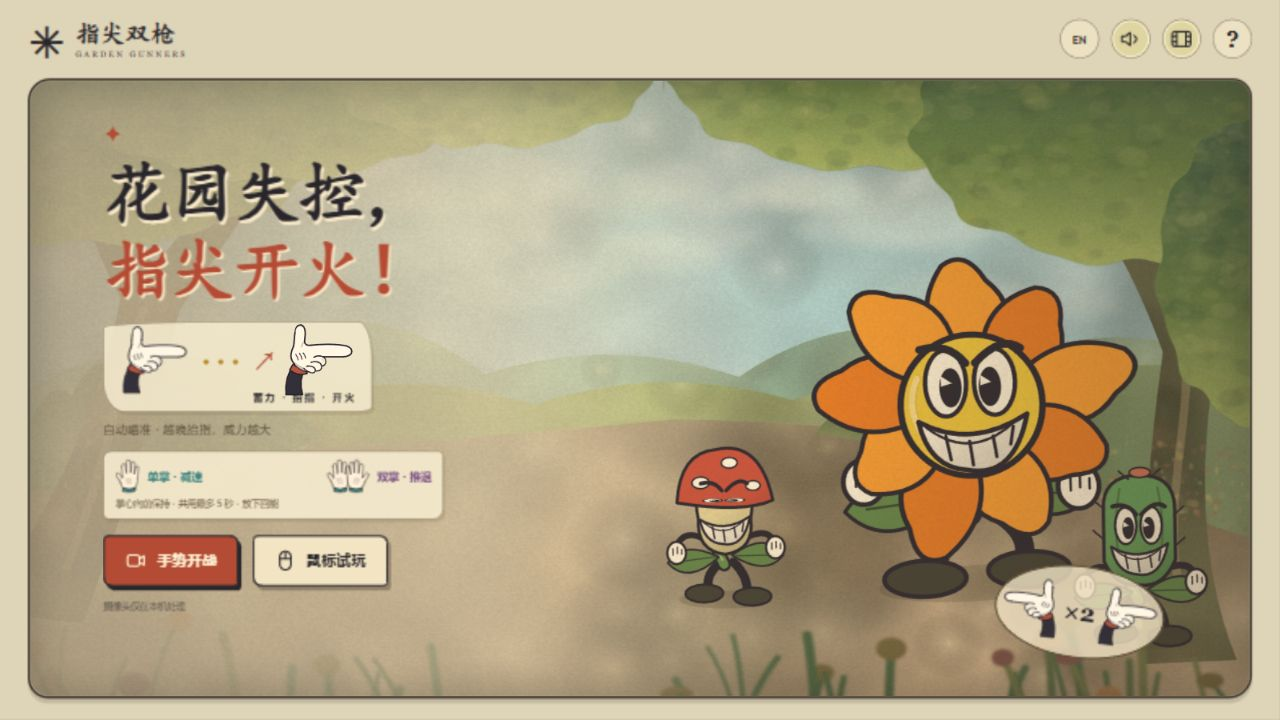
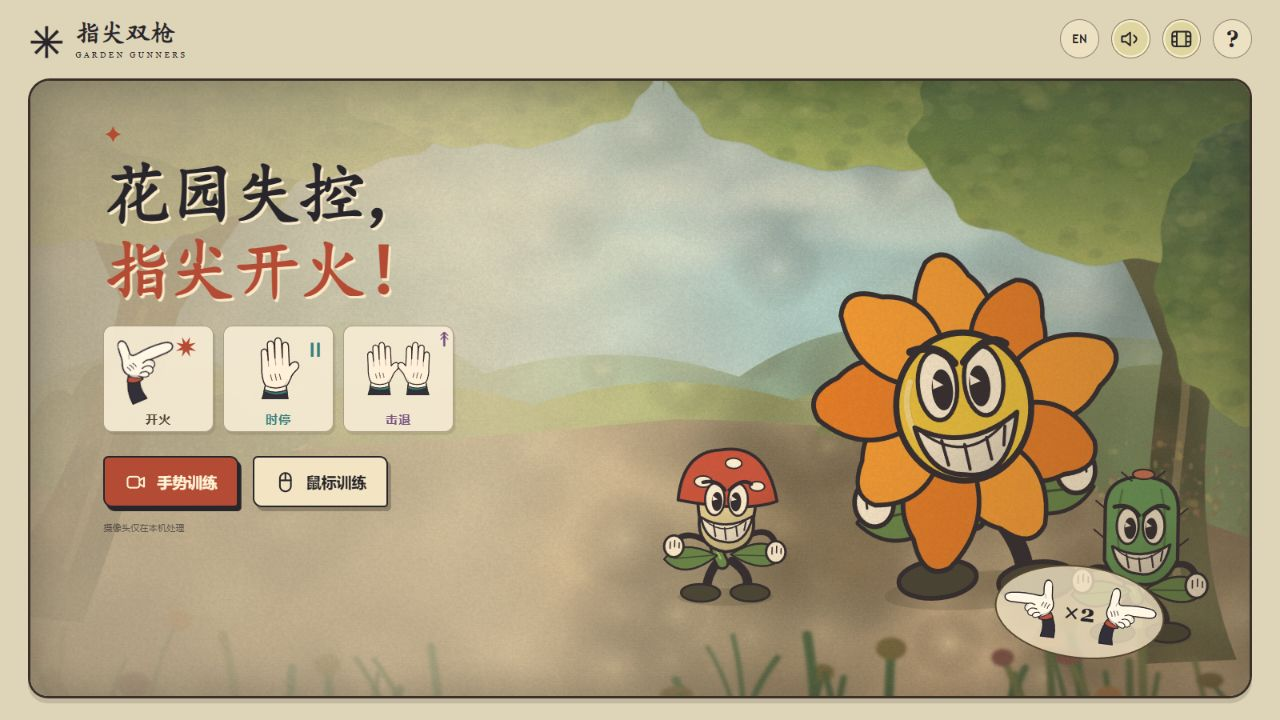
Add guided skill training, time freeze, and 20-hit explosive shots

diff --git a/dist/index.html b/dist/index.html
@@ -7,11 +7,17 @@
 <button id="film" class="tool" data-i18n-aria-label="filmOff" aria-label="Disable film effects" data-i18n-title="film" aria-pressed="true"><svg class="ui-icon" viewBox="0 0 24 24" fill="none" stroke="currentColor" stroke-width="1.8" stroke-linecap="round" stroke-linejoin="round" aria-hidden="true"><rect x="2" y="4" width="20" height="16" rx="3"/><path d="M7 4v16M17 4v16M2 9h5M2 15h5M17 9h5M17 15h5"/></svg></button>
 <button id="help" class="tool" data-i18n-aria-label="help" aria-label="How to play" data-i18n-title="help">?</button></nav></header>
 <section class="arena" data-i18n-aria-label="arena" aria-label="First-person finger-gun garden"><canvas id="scene" data-i18n-aria-label="scene" aria-label="Dual finger guns automatically targeting plants"></canvas><div class="frame-corners" aria-hidden="true"></div>
-<div id="intro" class="intro"><div class="title-star" aria-hidden="true">✦</div><h1><span data-i18n="titleOne">Garden gone wild.</span><br><span class="title-accent" data-i18n="titleTwo">Fingers, fire!</span></h1><div class="gesture-lesson" data-i18n-aria-label="lesson" aria-label="Hold a finger gun to charge, then flick upward to fire"><div class="pose-options"><img src="./assets/gun-two.svg" data-i18n-alt="poseAlt" alt="Extend your index finger and thumb; curl the other fingers"><span class="charge-dots" aria-hidden="true">● ● ●</span></div><span class="lesson-arrow" aria-hidden="true">↗</span><div class="flick-demo"><img src="./assets/gun-two.svg" data-i18n-alt="flickAlt" alt="Flick upward to fire"><i aria-hidden="true">✷</i></div><b data-i18n="lessonLabel">HOLD · LIFT · FIRE</b></div><p class="charge-hint" data-i18n="chargeHint">Auto aim · Wait longer, hit harder</p><div class="palm-lesson"><div class="palm-lesson-actions"><span><img src="./assets/palm.svg" alt="" aria-hidden="true"><b data-i18n="palmLessonSlow">One palm · Slow</b></span><span><i class="palm-pair" aria-hidden="true"><img src="./assets/palm.svg" alt=""><img src="./assets/palm.svg" alt=""></i><b data-i18n="palmLessonPush">Two palms · Push</b></span></div><small data-i18n="palmLessonEnergy">Hold palms forward · Shared 5s max · Lower to recharge</small></div><div class="intro-controls"><button id="camera-start" class="primary"><svg class="ui-icon" viewBox="0 0 24 24" fill="none" stroke="currentColor" stroke-width="1.8" stroke-linecap="round" stroke-linejoin="round" aria-hidden="true"><rect x="3" y="6" width="13" height="12" rx="3"/><path d="M16 10l5-3v10l-5-3"/></svg><span data-i18n="cameraStart">Play with hands</span></button><button id="mouse-start" class="secondary"><svg class="ui-icon" viewBox="0 0 24 24" fill="none" stroke="currentColor" stroke-width="1.8" stroke-linecap="round" stroke-linejoin="round" aria-hidden="true"><rect x="6" y="2" width="12" height="20" rx="6"/><path d="M12 3v7M6 10h12"/></svg><span data-i18n="mouseStart">Try with mouse</span></button></div><small class="privacy" data-i18n="privacy">Camera processed on your device only</small></div>
+<div id="intro" class="intro"><div class="title-star" aria-hidden="true">✦</div><h1><span data-i18n="titleOne">Garden gone wild.</span><br><span class="title-accent" data-i18n="titleTwo">Fingers, fire!</span></h1><div class="intro-lessons">
+<div class="intro-skill"><div class="lesson-picture"><span class="flick-demo"><img src="./assets/gun-two.svg" alt="" aria-hidden="true"><i aria-hidden="true">✷</i></span></div><b data-i18n="homeFire">FIRE</b></div>
+<div class="intro-skill"><div class="lesson-picture"><img class="lesson-palm" src="./assets/palm.svg" alt="" aria-hidden="true"><span class="skill-mark" aria-hidden="true">Ⅱ</span></div><b data-i18n="homeFreeze">FREEZE</b></div>
+<div class="intro-skill"><div class="lesson-picture lesson-double"><img src="./assets/palm.svg" alt="" aria-hidden="true"><img src="./assets/palm.svg" alt="" aria-hidden="true"><span class="skill-mark" aria-hidden="true">↟</span></div><b data-i18n="homePush">PUSH</b></div>
+</div><div class="intro-controls"><button id="camera-start" class="primary"><svg class="ui-icon" viewBox="0 0 24 24" fill="none" stroke="currentColor" stroke-width="1.8" stroke-linecap="round" stroke-linejoin="round" aria-hidden="true"><rect x="3" y="6" width="13" height="12" rx="3"/><path d="M16 10l5-3v10l-5-3"/></svg><span data-i18n="cameraStart">Play with hands</span></button><button id="mouse-start" class="secondary"><svg class="ui-icon" viewBox="0 0 24 24" fill="none" stroke="currentColor" stroke-width="1.8" stroke-linecap="round" stroke-linejoin="round" aria-hidden="true"><rect x="6" y="2" width="12" height="20" rx="6"/><path d="M12 3v7M6 10h12"/></svg><span data-i18n="mouseStart">Try with mouse</span></button></div><small class="privacy" data-i18n="privacy">Camera processed on your device only</small></div>
 <div id="poster-stamp" class="poster-stamp" data-i18n-aria-label="dual" aria-label="Fire both hands together"><img src="./assets/gun-two.svg" data-i18n-alt="leftGun" alt="Left gun"><span>×2</span><img src="./assets/gun-two.svg" data-i18n-alt="rightGun" alt="Right gun"></div>
 <div id="game-hud" class="game-hud" hidden><div class="health" data-i18n-aria-label="health" aria-label="Health"><b id="health">♥ ♥ ♥ ♥ ♥</b></div><div class="round-display"><b id="time">∞</b><span id="mode-name" data-i18n="practice">Practice</span></div><div class="score"><b id="score">00000</b><small id="combo">✿ 0</small></div></div>
-<div id="palm-hud" class="palm-hud" hidden><div class="palm-heading"><span aria-hidden="true">✋</span><span id="palm-state" data-i18n="palmReady">PALM POWER</span><b id="palm-time">5.0s</b></div><div id="palm-energy" class="palm-energy" role="meter" aria-valuemin="0" aria-valuemax="100" aria-valuenow="100"><i></i></div><div id="palm-buttons"><button id="stop-left" data-i18n-title="stopLeft" data-i18n-aria-label="stopLeft" aria-pressed="false">Q · L</button><button id="stop-right" data-i18n-title="stopRight" data-i18n-aria-label="stopRight" aria-pressed="false">E · R</button></div></div>
-<div id="boss-hud" class="boss-hud" hidden><b id="boss-name" data-i18n="bossName">DREAD BLOOM</b><div id="boss-health" role="meter" aria-valuemin="0" aria-valuemax="48" aria-valuenow="48"><i></i></div></div>
+<div id="palm-hud" class="palm-hud" hidden><div class="palm-heading"><span aria-hidden="true">✋</span><span id="palm-state" data-i18n="palmReady">PALM POWER</span><b id="palm-time">10.0s</b></div><div id="palm-energy" class="palm-energy" role="meter" aria-valuemin="0" aria-valuemax="100" aria-valuenow="100"><i></i></div><div id="palm-buttons"><button id="stop-left" data-i18n-title="stopLeft" data-i18n-aria-label="stopLeft" aria-pressed="false">Q · L</button><button id="stop-right" data-i18n-title="stopRight" data-i18n-aria-label="stopRight" aria-pressed="false">E · R</button></div></div>
+<div id="boss-hud" class="boss-hud" hidden><b id="boss-name" data-i18n="bossName">DREAD BLOOM</b><div id="boss-health" role="meter" aria-valuemin="0" aria-valuemax="20" aria-valuenow="20"><i></i></div></div>
+<div id="burst-hud" class="burst-hud" hidden><span aria-hidden="true">✹</span><b id="burst-label"></b><div class="burst-meter"><i id="burst-fill"></i></div></div>
+<div id="tutorial-hud" class="tutorial-hud" hidden><img id="tutorial-icon" src="./assets/gun-two.svg" alt="" aria-hidden="true"><div class="tutorial-copy"><small id="tutorial-progress"></small><b id="tutorial-title"></b><p id="tutorial-instruction"></p></div><strong id="tutorial-counter"></strong><button id="tutorial-skip" data-i18n="skipTutorial">Skip</button></div>
 <div id="feedback" class="feedback" role="status" aria-live="polite"></div>
 <aside id="camera-panel" class="camera-panel" hidden><div class="camera-top"><span>●</span><button id="stop-camera" data-i18n-aria-label="closeCamera" aria-label="Stop camera and return home">×</button></div><div class="camera-view"><video id="video" muted autoplay playsinline></video><canvas id="landmarks" width="240" height="180"></canvas></div><div id="camera-status" role="status" data-i18n="cameraMissing">○ Waiting for a hand</div></aside>
 <div id="bottom-hud" class="bottom-hud" hidden><div class="hand-status"><div class="gun-meter left"><span id="left-status">L ●</span><div id="left-charge" class="charge-meter" role="meter" aria-valuemin="0" aria-valuemax="100" aria-valuenow="0"><i></i></div><b id="left-power">×1</b></div><div class="gun-meter right"><span id="right-status">R ●</span><div id="right-charge" class="charge-meter" role="meter" aria-valuemin="0" aria-valuemax="100" aria-valuenow="0"><i></i></div><b id="right-power">×1</b></div></div><div class="bottom-middle"><span id="input-hint"></span></div><div class="round-actions"><button id="challenge" class="primary small" data-i18n="challenge">▶ Defend</button><button id="pause" class="tool" data-i18n-title="pauseHint" data-i18n-aria-label="pause" aria-label="Paused"><svg class="ui-icon" viewBox="0 0 24 24" fill="none" stroke="currentColor" stroke-width="1.8" stroke-linecap="round" stroke-linejoin="round" aria-hidden="true"><path d="M8 4v16M16 4v16"/></svg></button><button id="home" class="tool" data-i18n-title="home" data-i18n-aria-label="home" aria-label="Home"><svg class="ui-icon" viewBox="0 0 24 24" fill="none" stroke="currentColor" stroke-width="1.8" stroke-linecap="round" stroke-linejoin="round" aria-hidden="true"><path d="M10 4H4v16h6M9 12h12M16 7l5 5-5 5"/></svg></button></div></div>
@@ -20,5 +26,5 @@
 <div id="loading" class="overlay" hidden><div class="dialog"><span class="spinner">✳</span><h2 data-i18n="loading">Getting ready…</h2><p id="loading-text" role="status"></p><button id="cancel-loading" class="secondary" data-i18n="cancel">Cancel</button></div></div>
 <div id="error-box" class="overlay" hidden><div class="dialog"><h2 data-i18n="cameraUnavailable">Camera unavailable</h2><p id="error-message" role="alert"></p><button id="retry-camera" class="primary" data-i18n="retry">Try again</button><button id="fallback" class="secondary" data-i18n="mouseStart">Try with mouse</button><button id="error-home" class="text-button" data-i18n="home">Home</button></div></div>
 </section></main>
-<dialog id="help-dialog"><button id="close-help" class="close-dialog" data-i18n-aria-label="closeHelp" aria-label="Close guide">×</button><h2 data-i18n="helpTitle">Hold, charge, bang!</h2><div class="gesture-lesson" data-i18n-aria-label="lesson" aria-label="Hold a finger gun to charge, then flick upward to fire"><div class="pose-options"><img src="./assets/gun-two.svg" data-i18n-alt="poseAlt" alt="Extend your index finger and thumb; curl the other fingers"><span class="charge-dots" aria-hidden="true">● ● ●</span></div><span class="lesson-arrow" aria-hidden="true">↗</span><div class="flick-demo"><img src="./assets/gun-two.svg" data-i18n-alt="flickAlt" alt="Flick upward to fire"><i aria-hidden="true">✷</i></div><b data-i18n="lessonLabel">HOLD · LIFT · FIRE</b></div><div class="help-controls"><div><svg class="ui-icon" viewBox="0 0 24 24" fill="none" stroke="currentColor" stroke-width="1.8" stroke-linecap="round" stroke-linejoin="round" aria-hidden="true"><rect x="6" y="2" width="12" height="20" rx="6"/><path d="M12 3v7M6 10h12"/></svg><p data-i18n="mouseHelp">Click left / right or press A / D to fire. Space fires both guns. Both charge automatically: wait longer for more damage.</p></div><div><svg class="ui-icon" viewBox="0 0 24 24" fill="none" stroke="currentColor" stroke-width="1.8" stroke-linecap="round" stroke-linejoin="round" aria-hidden="true"><circle cx="12" cy="12" r="7"/><path d="M12 1v5M12 18v5M1 12h5M18 12h5"/></svg><p data-i18n="gestureHelp">Keep a finger gun in view to charge. Flick upward to fire, then lower it to charge again. Targets lock automatically; no hand aiming needed.</p></div></div><p class="help-note" data-i18n="rulesHelp">About 1 second gives 2 damage; 2 seconds gives a full 3-damage shot. Plants have 2–4 health. Practice is harmless; clear five waves and defeat the final boss with 5 hearts to win.</p><p class="help-note" data-i18n="trackingHelp">Keep your hands comfortably apart. Brief occlusions preserve charge; a longer absence pauses play. Holding a raised finger does not fire repeatedly.</p><p class="help-note" data-i18n="palmHelp"></p><p class="help-note" data-i18n="privacyHelp">Camera frames are never recorded or uploaded. The first model download needs internet access. Leaving stops the camera.</p><button id="help-done" class="primary" data-i18n="helpDone">Let’s play!</button></dialog>
+<dialog id="help-dialog"><button id="close-help" class="close-dialog" data-i18n-aria-label="closeHelp" aria-label="Close guide">×</button><h2 data-i18n="helpTitle">Hold, charge, bang!</h2><div class="gesture-lesson" data-i18n-aria-label="lesson" aria-label="Hold a finger gun to charge, then flick upward to fire"><div class="pose-options"><img src="./assets/gun-two.svg" data-i18n-alt="poseAlt" alt="Extend your index finger and thumb; curl the other fingers"><span class="charge-dots" aria-hidden="true">● ● ●</span></div><span class="lesson-arrow" aria-hidden="true">↗</span><div class="flick-demo"><img src="./assets/gun-two.svg" data-i18n-alt="flickAlt" alt="Flick upward to fire"><i aria-hidden="true">✷</i></div><b data-i18n="lessonLabel">HOLD · LIFT · FIRE</b></div><div class="help-controls"><div><svg class="ui-icon" viewBox="0 0 24 24" fill="none" stroke="currentColor" stroke-width="1.8" stroke-linecap="round" stroke-linejoin="round" aria-hidden="true"><rect x="6" y="2" width="12" height="20" rx="6"/><path d="M12 3v7M6 10h12"/></svg><p data-i18n="mouseHelp">Click left / right or press A / D to fire. Space fires both guns. Both charge automatically: wait longer for more damage.</p></div><div><svg class="ui-icon" viewBox="0 0 24 24" fill="none" stroke="currentColor" stroke-width="1.8" stroke-linecap="round" stroke-linejoin="round" aria-hidden="true"><circle cx="12" cy="12" r="7"/><path d="M12 1v5M12 18v5M1 12h5M18 12h5"/></svg><p data-i18n="gestureHelp">Keep a finger gun in view to charge. Flick upward to fire, then lower it to charge again. Targets lock automatically; no hand aiming needed.</p></div></div><p class="help-note" data-i18n="rulesHelp">About 1 second gives 2 damage; 2 seconds gives a full 3-damage shot. Plants have 1–2 health. Practice is harmless; clear five waves and defeat the final boss with 5 hearts to win.</p><p class="help-note" data-i18n="trackingHelp">Keep your hands comfortably apart. Brief occlusions preserve charge; a longer absence pauses play. Holding a raised finger does not fire repeatedly.</p><p class="help-note" data-i18n="palmHelp"></p><p class="help-note" data-i18n="privacyHelp">Camera frames are never recorded or uploaded. The first model download needs internet access. Leaving stops the camera.</p><button id="help-done" class="primary" data-i18n="helpDone">Let’s play!</button></dialog>
 <script type="module" src="./app.mjs"></script></body></html>

diff --git a/dist/style.css b/dist/style.css
@@ -15,7 +15,11 @@
 html[lang=en] h1{font-family:Georgia,serif;font-size:clamp(34px,4.5vw,70px);line-height:1.12;letter-spacing:-2.5px}html[lang=en] .brand{font:700 22px Georgia,serif}html[lang=en] .intro{width:53%;left:5%}html[lang=en] .dialog h2,html[lang=en] dialog h2{font-family:Georgia,serif;font-size:28px}.help-controls p{line-height:1.75}.help-note{line-height:1.7}
 @media(max-width:650px){.masthead nav{gap:5px}.tool.language{min-width:30px;font-size:10px}html[lang=en] .brand{font-size:16px}.brand-icon{font-size:27px}html[lang=en] .brand small{letter-spacing:1px;font-size:6px}html[lang=en] h1{font-size:37px;letter-spacing:-1.5px}html[lang=en] .intro{width:89%;left:6%}.charge-hint{font-size:10px;margin-bottom:15px}.gun-meter{gap:3px}.charge-meter{width:40px}.hand-status{gap:8px}.gun-meter b{font-size:10px}.gesture-lesson{min-width:205px}.help-controls{grid-template-columns:1fr}html[lang=en] .intro-controls button{font-size:11px;padding:10px;gap:6px}}
 .tool.language{padding:0;white-space:nowrap}
-.intro .charge-hint{margin-bottom:12px}.palm-lesson{width:340px;max-width:100%;margin:0 0 16px;padding:7px 11px 8px;background:#f5eacde8;border:1.5px solid #4a3b2a66;border-radius:8px 5px 10px 6px;box-shadow:2px 3px #4b3d2622}.palm-lesson-actions{display:flex;justify-content:space-between;gap:10px}.palm-lesson-actions>span{display:flex;align-items:center;gap:7px;color:#367f7d}.palm-lesson-actions>span+span{color:#795082}.palm-lesson img{width:25px;height:35px}.palm-lesson b{font-size:11px;white-space:nowrap}.palm-pair{display:flex;gap:0}.palm-pair img:last-child{transform:scaleX(-1);margin-left:-6px}.palm-lesson small{display:block;font-size:9px;line-height:1.5;color:#655640;margin-top:3px}html[lang=en] .palm-lesson{width:355px}.intro .gesture-lesson{margin-bottom:17px}@media(max-width:650px){.palm-lesson{margin-bottom:13px}.palm-lesson b{font-size:10px}.palm-lesson small{font-size:8px}}@media(min-width:651px) and (max-height:800px){.intro{top:6%}.intro h1{margin-bottom:14px}.intro .gesture-lesson{height:90px;margin-block:10px 15px}.intro .privacy{margin-top:14px}}
+.intro-lessons{display:grid;grid-template-columns:repeat(3,1fr);gap:10px;width:350px;max-width:100%;margin:18px 0 24px}.intro-skill{display:grid;grid-template-rows:80px 25px;justify-items:center;align-items:center;background:#f6ebd4e8;border:1.5px solid #65564180;border-radius:9px;box-shadow:2px 3px #4b3d2622}.intro-skill b{font-size:12px;letter-spacing:1px;color:#544636}.lesson-picture{height:76px;width:100%;display:flex;align-items:center;justify-content:center;position:relative}.lesson-picture .flick-demo{display:block;width:72px;height:72px}.lesson-picture .flick-demo img{width:72px;height:72px}.lesson-palm{width:44px;height:66px}.lesson-double img{width:37px;height:58px}.lesson-double img+img{transform:scaleX(-1);margin-left:-5px}.skill-mark{position:absolute;right:8px;top:6px;font:700 19px Georgia;color:#367f7d}.lesson-double .skill-mark{color:#795082;right:4px;top:0}.intro-skill:nth-child(2) b{color:#367f7d}.intro-skill:nth-child(3) b{color:#795082}
+.burst-hud{position:absolute;right:30px;top:77px;width:154px;display:grid;grid-template-columns:20px 1fr;gap:3px;color:#765438;background:#f4e8c8d9;border:1px solid #76644b;border-radius:7px;padding:7px;font:700 10px Georgia}.burst-hud>span{font-size:22px;grid-row:span 2}.burst-meter{height:5px;background:#9c825444;border-radius:4px;overflow:hidden}.burst-meter i{display:block;height:100%;background:#e79437}.burst-hud[data-active=true]{color:#9b3d25;background:#ffdf9be8;box-shadow:0 0 16px #ee8b3855}.burst-hud[data-active=true] .burst-meter i{background:#d95e29}
+.tutorial-hud{position:absolute;top:143px;left:50%;transform:translateX(-50%);width:420px;max-width:90%;display:grid;grid-template-columns:58px 1fr 38px;align-items:center;gap:10px;padding:12px 14px 23px;background:#f8edcfef;border:2px solid #594b38;border-radius:10px;box-shadow:3px 4px #4b3d2633;z-index:2}.tutorial-hud>img{width:56px;height:67px;object-fit:contain}.tutorial-copy{min-width:0}.tutorial-copy small{display:block;color:#438681;font:12px Georgia;letter-spacing:1px;margin-bottom:5px}.tutorial-copy b{font-size:17px}.tutorial-copy p{font-size:11px;line-height:1.6;margin:5px 0 0}.tutorial-hud>strong{font:700 13px Georgia;color:#3d817b;text-align:center}#tutorial-skip{position:absolute;bottom:5px;right:13px;font-size:9px;color:#75664f;text-decoration:underline;padding:2px}.training #feedback{display:none}.training .tutorial-hud[data-step=burst]{border-color:#c17136}.training .tutorial-hud[data-step=push]{border-color:#87629a}
+@media(max-width:650px){.intro-lessons{gap:8px;width:320px;margin-block:14px 22px}.intro-skill{grid-template-rows:73px 24px}.intro-skill b{font-size:10px}.burst-hud{right:14px;top:65px;width:128px;font-size:8px;padding:5px}.tutorial-hud{top:153px;grid-template-columns:40px 1fr 30px;gap:7px;padding:9px 10px 23px}.tutorial-hud>img{width:38px;height:54px}.tutorial-copy b{font-size:14px}.tutorial-copy p{font-size:10px}.tutorial-copy small{font-size:10px}.tutorial-hud>strong{font-size:11px}}
+@media(min-width:651px) and (max-height:800px){.intro{top:6%}.intro h1{margin-bottom:14px}.intro .privacy{margin-top:14px}}
 .palm-hud{position:absolute;left:30px;top:70px;width:172px;padding:8px 10px;background:#f4e8c8d9;border:1.5px solid #4b4433;border-radius:9px;box-shadow:2px 3px #3c372430;color:#367f7d}.palm-heading{display:flex;align-items:center;gap:5px;font:bold 10px Georgia}.palm-heading b{margin-left:auto;font-size:13px}.palm-energy{height:9px;background:#5b574b40;border:1px solid #4b4433;border-radius:6px;overflow:hidden;margin-top:5px}.palm-energy i{display:block;height:100%;width:var(--energy,100%);background:#4c9f98}.palm-hud[data-state=push]{color:#7850a2}.palm-hud[data-state=push] .palm-energy i{background:#9470b2}.palm-hud[data-state=empty]{color:#9c4937}.palm-hud[data-state=empty] .palm-heading{font-size:9px}#palm-buttons{display:flex;gap:8px;margin-top:5px}#palm-buttons button{flex:1;border:1px solid currentColor;border-radius:4px;padding:3px;font:700 10px Georgia;touch-action:none;user-select:none}#stop-right{color:#bd513c}#palm-buttons button[aria-pressed=true]{background:#fff2d9;box-shadow:inset 0 0 0 1px currentColor}.boss-hud{position:absolute;top:92px;left:50%;transform:translateX(-50%);width:280px;text-align:center;color:#f5e6cc;text-shadow:1px 2px #32223b;font:900 14px Georgia;pointer-events:none}#boss-health{margin-top:6px;height:12px;border:2px solid #33223a;border-radius:7px;background:#443442;overflow:hidden}#boss-health i{display:block;height:100%;width:var(--boss-hp,100%);background:linear-gradient(90deg,#85509b,#d27989)}
 @media(max-width:650px){.palm-hud{left:14px;top:65px;width:140px;padding:6px}.boss-hud{top:155px;width:190px;font-size:11px}.palm-heading{font-size:8px}.palm-heading b{font-size:11px}}
 /* Tracking loss must leave the live preview and its landmarks unobscured. */

diff --git a/README.md b/README.md
@@ -6,11 +6,9 @@ English overview and a short marking walkthrough: [Assessment guide](docs/ASSESS
 
 ![新版首页](docs/screenshot.png)
 
-![参考轮廓重绘的白手套与自动锁定](docs/gameplay.jpg)
+![新版手背白手套（模拟按键检查）](docs/tutorial-palms.png)
 
-![分波来袭与增强指尖蓄力](docs/waves-charge.jpg)
-
-![双掌推退和最终波 Boss（模拟输入检查，并非真人摄像头）](docs/palms-boss.png)
+![20 连击爆燃范围效果（模拟检查）](docs/burst-shots.png)
 
 ## 启动
 
@@ -36,20 +34,22 @@ npm start
 | 瞄准 | 自动锁定最迫近的植物，双枪按目标左右位置分配，只显示准星 | 同样自动锁定，无需移动鼠标 |
 | 蓄力 | 保持指枪，约 1 秒为 2 点伤害、2 秒为 3 点伤害 | 两枪自动蓄力，晚一点点击 / 按键伤害更高 |
 | 发射 | 稳住片刻，向上轻抬食指或手腕，放回原位后再抬 | 左键 / A 左枪，右键 / D 右枪，空格双发 |
-| 减速 | 一只手张开、掌心朝镜头保持，另一手可继续射击 | 按住 Q 左掌 / E 右掌，或按住能量条下的按钮 |
-| 推退 | 双手同时张掌，逐渐推退敌群 | 同时按住 Q + E |
+| 时停 | 一只手张开、掌心朝镜头保持，冻结怪物，另一手可继续射击 | 按住 Q 左掌 / E 右掌，或按住能量条下的按钮 |
+| 强力击退 | 双手同时张掌，将敌群快速推远 | 同时按住 Q + E |
 | 暂停 | Esc / 暂停按钮 | 相同 |
 | 退出 | 退出 / 返回首页，同时关闭摄像头 | 相同 |
 
 食指自然朝向镜头即可，不用刻意侧过来、竖拇指或收紧其他手指。保持手指和手腕完整入镜，两只手自然分开。识别优先使用三维关节，兼容指尖与指节在画面中重叠的情况；极端遮挡下模型仍可能丢失手部。
 
-**有植物时开火必定命中。** 自动选择最迫近的目标，两枪按目标的左右位置分配，不要求交叉手臂。场上只剩一只植物时，两枪可锁定同一个；没有植物时不计空枪。命中会击退植物，显示伤害与得分。蘑菇 / 花朵 / 仙人掌分别有 2 / 3 / 4 点生命；蓄力伤害依次为 1 / 2 / 3。指尖能量球、汇聚粒子、双层能量环、满蓄力电弧、子弹与爆字随蓄力加强。没有弹药限制，保持抬指不动不会自动连射。
+**有植物时开火必定命中。** 自动选择最迫近的目标，两枪按目标的左右位置分配，不要求交叉手臂。场上只剩一只植物时，两枪可锁定同一个；没有植物时不计空枪。命中会击退植物，显示伤害与得分。蘑菇 / 花朵 / 仙人掌分别有 1 / 1 / 2 点生命；蓄力伤害依次为 1 / 2 / 3。指尖能量球、汇聚粒子、双层能量环、满蓄力电弧、子弹与爆字随蓄力加强。没有弹药限制，保持抬指不动不会自动连射。
 
-界面按浏览器首选语言显示中文或英文，其他语言默认英文。右上角 `EN / 中文` 可手动切换并保存选择。首页用指枪与掌心图示表达蓄力开火、单掌减速、双掌推退及共享能量。指枪识别不严格要求图中姿势，三指和放松其他手指都可使用。
+界面按浏览器首选语言显示中文或英文，其他语言默认英文。右上角 `EN / 中文` 可手动切换并保存选择。首页用指枪与掌心图示表达蓄力开火、单掌时停和双掌击退；三张图卡等宽对齐，详细说明放在训练中。指枪识别不严格要求图中姿势，三指和放松其他手指都可使用。
 
-掌心动作使用两手共用的能量条。满能量可单手减速 **5 秒**，敌人移速降低 68%；双掌移速降低 85% 并持续推退，耗能为单掌的 1.6 倍。放下所有停止手势后缓慢恢复，空到满约 7.7 秒；不必充满即可再次使用。保持空能量掌心不会自动恢复。张掌的手不射击，另一只指枪仍可正常蓄力、开火。为避免误射，四指明显张开并面向镜头时优先进入停止模式；普通指枪不检查中指是否伸出。
+掌心动作使用两手共用的能量条。满能量可单手**时停 10 秒**，冻结怪物移动、动作与补兵计时；双掌在停止前进的同时强力击退，耗能为单掌的 1.6 倍，满能量可持续约 6.25 秒。放下所有停止手势后每秒恢复 1 秒能量，空到满约 10 秒；不必充满即可再次使用。保持空能量掌心不会自动恢复。张掌的手不射击，另一只指枪仍可正常蓄力、开火。四指明显张开并面向镜头时优先进入停止模式，普通指枪不检查中指是否伸出。
 
-先自由练习，不限时也不扣生命；随时点击“开始保卫战”。保卫战有 5 点生命，共 5 波，依次为 **6 / 10 / 16 / 22 / 30** 只。开波成群来袭，较大的波次分批补充，场上最多 18 只；每波结束休息 3.5 秒，可提前蓄力或恢复掌心能量。最后一波包含 48 点生命的巨型花王，有独立血条、较强击退抗性，半血后加速。普通植物接触扣 1 点生命，Boss 扣 2 点并后退继续进攻；必须击败 Boss 并清完最终波才能获胜。
+**每 20 次命中连击触发 6 秒爆燃射击**（20、40、60……），触发这一枪就获得范围伤害，后续子弹也伤害目标周围的敌人。橙色指尖火焰、爆炸范围圈与倒计时提示效果；溅射击杀不额外增加连击或命中次数。受伤会清空连击，暂停冻结爆燃时间，重开清除效果。
+
+开始后进入安全训练，依次练习开火、满蓄力、单掌时停、一手停一手射、双掌击退、放下回能、20 连击范围爆燃。完成当前动作才进入下一项；最后自动进入第一波，生命、能量和连击全部重置。已有经验可点“跳过教学”。保卫战有 5 点生命，共 5 波，依次为 **6 / 10 / 16 / 22 / 30** 只。开波成群来袭，较大的波次分批补充，场上最多 18 只；每波结束休息 3.5 秒，可提前蓄力或恢复掌心能量。最后一波包含 20 点生命的巨型花王，有独立血条、较强击退抗性，半血后加速。普通植物接触扣 1 点生命，Boss 扣 2 点并后退继续进攻；必须击败 Boss 并清完最终波才能获胜。
 
 ## 交互实现
 
@@ -57,8 +57,9 @@ npm start
 - 两只手使用独立触发器、蓄力和冷却。`dist/tracking.mjs` 根据相邻帧手腕位置匹配双手，首次保留当前 Tasks Vision 路径的高置信度左右手标签，不再额外交换；后续优先连续跟踪，避免偶尔跳变的标签或检测顺序换枪。预览骨架、L/R 标记和开枪共用最终分配的身份及颜色（左青绿、右砖红）。标签不明确时才按镜像画面位置回退。食指稍弯也可进入；清晰识别后允许短暂食指遮挡，最多约 750ms 保留指枪状态；重新出现时校准基线，不补发遮挡中发生的动作。
 - `dist/palm-control.mjs`：四指张开及手掌平面朝向检测，稳定 120ms 后生效；规则宽容，不严格区分掌心与手背。停止手势优先于射击，切回指枪重新校准，丢失追踪超过 150ms 即停止耗能与控制。共享能量、部分充能复用、双掌额外耗能均由独立规则管理。
 - `automaticTargets()` 按迫近程度选取目标，再按屏幕左右排序；`GardenGame.shoot()` 在开火时重新选取存活目标，扣血、击退并加分。玩家手掌位置不再用于瞄准。
+- `dist/tutorial.mjs`：七步训练状态，按实际动作推进，暂停不计进度，完成后由应用自动进入正式关卡。
 - `dist/app.mjs`：输入、暂停、模式切换、反馈和摄像头生命周期。
-- `dist/renderer.mjs`：Canvas 原创复古卡通角色、白手套和粒子，`backdrop.mjs` 绘制分层背景。首页展示一种指枪教学、蓄力提示与抬指动画，详细说明收进问号。右上角胶片按钮切换柔焦、颗粒、暖色与暗角；系统减少动态效果设置会停用动态图示、颗粒位移及划痕。无外部绘图库或运行时图片服务依赖。
+- `dist/renderer.mjs`：Canvas 原创复古卡通角色、白手套和粒子，`backdrop.mjs` 绘制分层背景。首页展示三张技能图卡，训练逐项解释技能，详细说明收进问号。右上角胶片按钮切换柔焦、颗粒、暖色与暗角；系统减少动态效果设置会停用动态图示、颗粒位移及划痕。无外部绘图库或运行时图片服务依赖。
 - `dist/camera.mjs` / `dist/gesture-worker.mjs`：双手识别及预览；模型在 worker 中运行；摄像头请求最高 60fps，16ms 轮询最新帧，同时只允许一帧推理。实际识别频率取决于设备与模型耗时，完全漏掉的动作无法凭空重建。
 - `dist/i18n.mjs`：中文与英文文案，包含首页、帮助、HUD、暂停、结果、加载、错误与无障碍标签。
 
@@ -88,7 +89,7 @@ npm start
 npm test
 ```
 
-60 项自动测试覆盖：宽松食指追踪、中指变化不影响指枪或手套、三维正向透视、独立双枪、抖动与重装定、追踪中断、自动锁定、三档伤害、暂停/胜负/重置、双语、手套指尖与弹道一致，快速连续抬落、左右手映射与预览同色、五波数量与休息切换、掌心优先级与丢失恢复、共享能量的耗尽和部分恢复、单掌减速与双掌推退、Boss 接触及击杀胜利，以及音乐与音效生命周期。浏览器验证另见 `PROCESS.md`。
+67 项自动测试覆盖：宽松食指追踪、中指变化不影响指枪或手套、三维正向透视、独立双枪、抖动与重装定、追踪中断、自动锁定、三档伤害、暂停/胜负/重置、双语、手套指尖与弹道一致，快速连续抬落、左右手映射与预览同色、五波数量与休息切换、掌心优先级与丢失恢复、共享能量的耗尽和部分恢复、单掌时停与强力双掌击退、Boss 接触及击杀胜利、20 连击范围伤害与效果时限、七步教学推进与暂停，以及音乐与音效生命周期。浏览器验证另见 `PROCESS.md`。
 
 这是固定第一视角的轻量原型，没有移动探索或存档。**新版真实双手摄像头的舒适度与识别成功率仍需要再次实际试玩；合成关键点测试不能替代这一验证。** 手机布局可用，但主要面向桌面摄像头。首次试用反馈与对应改进已按提交者提供的信息记录在 PROCESS.md；未虚构第二次试用结果。
 

diff --git a/docs/ASSESSMENT.md b/docs/ASSESSMENT.md
@@ -16,16 +16,17 @@ npm run play
 
 No package installation or build step is needed. The launcher opens the browser and prints the actual local URL. On Windows, double-click `Play Garden Gunners.cmd` instead. Keep the terminal open; Ctrl+C stops the server. `npm start` is also supported, but requires manually opening the printed address. If its default port is occupied, use `npm run play` to select a free port.
 
-Use Chrome or Edge on a desktop. The interface follows the browser language (Chinese or English); the top language button overrides it. Click **Try with mouse** to inspect the complete interaction without granting any permission. Click **Play with hands** for the camera version. MediaPipe Tasks Vision 0.10.14 and the version-1 float16 Gesture Recognizer model are downloaded on first camera use. Frames stay on the device; they are not uploaded or recorded. There are no API keys, paid inference services, or Python runtime requirements.
+Use Chrome or Edge on a desktop. The interface follows the browser language (Chinese or English); the top language button overrides it. Click **Train with mouse** to inspect the complete interaction without granting any permission. Click **Train with hands** for the camera version. MediaPipe Tasks Vision 0.10.14 and the version-1 float16 Gesture Recognizer model are downloaded on first camera use. Frames stay on the device; they are not uploaded or recorded. There are no API keys, paid inference services, or Python runtime requirements.
 
 ## A two-minute walkthrough
 
-1. Enter mouse practice. It has no time limit or health penalty. Wait about two seconds: both fingertips and charge meters reach full charge.
-2. Press A or left-click for the left gun; D or right-click for the right. Space fires both. Any living target is hit automatically. Compare a quick follow-up shot with a fully charged one: damage increases from 1 to 2 to 3, with distinct projectile, impact and sound feedback.
-3. Press Esc. The game and audio stop; Resume continues. The home button resets the session. The speaker button mutes music and effects together.
-4. Hold Q for the left open palm or E for the right. One palm slows enemies while the other hand can shoot. Both palms push enemies back, draining the shared energy 1.6 times faster. Full energy lasts five seconds with one palm; lowering both restores it gradually, and partial energy can be reused. The buttons below the energy meter offer the same hold controls.
-5. Try Defend: complete five waves with five hearts. Waves contain 6, 10, 16, 22 and 30 enemies, arriving in groups with a 3.5-second intermission and at most 18 on screen. The final wave includes a large 48-HP flower boss with a health bar, knockback resistance and a half-health speed increase. It costs two hearts on contact and returns to attack; defeating it is required to win.
-6. For the camera, point an index finger naturally toward the lens, hold briefly, then lift it and lower it to re-arm. The other fingers do not need a precise gun pose. Clearly opening four fingers toward the camera takes priority and activates the palm control. Move both hands away: after a short grace period play pauses, while the camera preview remains clear. Bring a steady hand back to continue. Denied permission or an unavailable model provides Retry and mouse fallback.
+1. Enter mouse training. Follow seven short lessons: fire twice, charge a full shot, freeze time, fire with the other hand while freezing, push with both palms, recharge, then trigger explosive shots. Lessons check the actual action; finishing automatically enters wave one with fresh health, energy and combo. Skip training is also available.
+2. Press A or left-click for the left gun; D or right-click for the right. Space fires both. Targets are automatic. A full two-second charge deals 3 damage; regular plants have only 1–2 health.
+3. Hold Q or E to freeze enemies while the other hand shoots. Hold both to push strongly. Both hands share 10 seconds of energy; two palms drain it 1.6 times faster. Release to recharge, and reuse partial energy at any time.
+4. Every 20 consecutive hits activates 6 seconds of explosive area shots, including the triggering shot. Nearby enemies take splash damage; splash does not add extra combo. The orange fingertip flame, impact radius and countdown show the active effect.
+5. Complete five waves of 6, 10, 16, 22 and 30 enemies, with 3.5-second intermissions and at most 18 on screen. The final wave includes a 20-HP flower boss. It costs two hearts on contact and returns to attack; defeating it is required to win.
+6. For the camera, point an index toward the lens, lift and lower it to shoot. Open a palm toward the camera to freeze; open both to push. Move both hands away: play pauses after a grace period while the preview remains clear. Resume a steady pose to continue. Denied permissions offer retry and mouse fallback.
+7. Esc pauses game and audio. The home button resets the session; the speaker mutes music and effects together.
 
 ## One input-to-response code path
 

diff --git a/PROCESS.md b/PROCESS.md
@@ -132,3 +132,15 @@ OpenAI Codex 协助规则设计、MediaPipe 实现、程序化图形、测试、
 画面证据：[双掌与 Boss 模拟检查](docs/palms-boss.png)。另检查新增 HUD 在桌面与窄窗口的布局、英文状态与血条文案；浏览器检查未见警告或错误。
 
 随后根据玩家第 4 轮反馈，将掌心操作说明直接放到首页：白手套图示区分单掌减速与双掌推退，一行中英文文字说明保持朝前、共享能量与放下回充。通过现有双语检查并在浏览器检查首页，保留图形为主的说明方式。玩家将稍后测试，不记录尚未发生的复测结果。
+
+## 时停、20 连击爆燃与逐步训练（2026-10-31）
+
+玩家反馈首页说明过多、难度偏高及张掌造型不佳，并要求训练自动衔接关卡。按 [第 5、6 轮反馈](PLAYER_FEEDBACK.md)，首页缩为三张等宽技能图卡。张掌根据新参考画为手背白手套：指头并拢、圆指尖、竖布缝、拇指向画面内侧；左右整体镜像但袖口身份不互换。
+
+普通植物降为 1 / 1 / 2 血，Boss 从 48 降至 20 血。单掌改为真正冻结敌人位移、动作时间和补兵倒计时；双掌推力从每秒 0.16 深度提高至 0.48，Boss 使用 70% 推力。能量上限 10 秒，双掌仍耗能 1.6 倍，放下后每秒恢复 1 秒，部分能量可复用。玩家将拟定的爆燃阈值从 8 改为 20：每 20 次命中触发 6 秒范围子弹，触发枪立即生效；范围以命中前的位置计算，主目标与溅射各结算一次，连击只按开枪命中计数。受伤清空连击，暂停冻结爆燃倒计时。橙色指尖火焰、范围圈及进度条提示技能。
+
+新增独立的 tutorial.mjs 状态机：开火两次 → 满蓄力 → 单掌时停 → 一手停一手射 → 双掌推退 → 松手回能 → 20 连击范围爆燃。每次只显示当前动作说明，成功后短暂确认；完成后自动进入第 1 波并重置资源。练习目标会补充且不扣生命；长时间不动作或暂停不能自动跳课。已有经验者可跳过教学。键盘 Q / E 与射击同帧时也使用当前掌心状态，避免教学漏判混合操作。
+
+67 项自动测试覆盖全部既有规则及新增血量、冻结动作 / 补兵、推力、20 连击范围结算、效果刷新 / 到期、训练动作顺序及完成信号。真人摄像头成功率与新难度仍需后续实际反馈。
+
+浏览器检查：实际键盘走过开火、蓄力、时停和配合射击；隔离的模拟按键页走完全部七步，显示 `fire → charge → freeze → mixed → push → recharge → burst → WAVE 1`，第一波生命、能量、分数、连击均重置。另验证跳过教学直接开战，检查中英界面、窄窗口及桌面排版。模拟页最初的按键投递目标错误在检查脚本中修正；最终检查页未见警告或错误。手套和爆燃画面分别保存在 [tutorial-palms.png](docs/tutorial-palms.png) 与 [burst-shots.png](docs/burst-shots.png)，均带模拟输入标记；没有真人摄像头或识别成功率的测试结论。

diff --git a/PLAYER_FEEDBACK.md b/PLAYER_FEEDBACK.md
@@ -36,3 +36,18 @@
 ## 第 4 轮 · 2026-10-31：首页补充掌心说明
 
 玩家要求“主页加一下掌心减速的说明，做好之后 push，我晚点再测”。首页增加复古白手套图示：单掌减速、双掌推退，并用一行文字提示掌心向前保持、共用最多 5 秒、放下回能；同步英文版，保留原有简洁指枪教学。检查首页布局与两种语言文案，双语检查通过。玩家明确表示稍后测试，本轮未收到真人复测结果。
+
+## 第 5 轮 · 2026-10-31：简化说明、降低难度与技能教学
+
+| 玩家反馈 / 请求 | 本轮处理 | 验证与状态 |
+| --- | --- | --- |
+| 首页文本太多，图形化并注意对齐 | 改为三张同宽、同高、基线对齐的开火 / 时停 / 击退图卡；详细机制移至逐项教学 | 浏览器检查首页；中英文键完整性检查 |
+| 有点难，怪物血量降至 1–2 格 | 普通花朵、蘑菇 1 血，仙人掌 2 血；Boss 单独从 48 降至 20 血 | 自动检查生命配置和完整波次通关；难度是否合适待复测 |
+| 单掌时停、双掌更强击退、能量 10 秒 | 单掌冻结敌人移动、动作与补兵；双掌推力提高三倍，Boss 仍有较小抗性；共用 10 秒能量，每秒恢复 1 秒，双掌耗能 1.6 倍 | 自动检查精确 10 秒预算、冻结时钟与补兵、推退位移、耗尽恢复 |
+| 连击达到一定数量触发限时范围子弹 | 增加爆燃进度、6 秒效果与范围伤害，触发弹立即生效；橙色指尖火焰和范围冲击圈 | 自动检查范围内 / 外、溅射不刷连击、时限、暂停与重置；最终阈值见第 6 轮 |
+| 张掌图像不美观，要参考两张图，第二张翻到手背，注意左右 | 重新画并拢圆指、宽手背、三条竖布缝、短拇指和袖口；左手拇指朝右、右手拇指朝左，青绿 / 砖红身份保留 | 用同一套路径生成首页图示与运行手套；画面检查不代表玩家认可美术 |
+| 开始训练时逐个教技能，结束自动进正式关卡 | 七步动作教学，每步完成才推进；最后自动进第一波，重置生命 / 能量 / 连击；保留跳过教学 | 自动检查顺序、实际动作、暂停不推进、完成标记和正式关卡重置；浏览器走查 |
+
+## 第 6 轮 · 2026-10-31：爆燃阈值统一为 20
+
+用户对拟定的 8 次触发明确修正为“改为每 20 次吧，好记”。最终规则、教学及 HUD 统一为每 20 次命中连击触发 6 秒爆燃（20 / 40 / 60……）。范围伤害不额外计连击。测试验证第 19 次不触发、第 20 次触发、下一阈值刷新、超时结束和重开归零；未将尚未发生的真人试玩写为成功结果。

diff --git a/CREDITS.md b/CREDITS.md
@@ -10,6 +10,7 @@
 - **三维识别参考：** [MediaPipe 手部关键点说明](https://developers.google.com/edge/mediapipe/solutions/vision/hand_landmarker/web_js)，用于区分图像归一化坐标和以米为单位的世界坐标、修正宽高比并处理指尖朝镜头的透视缩短。
 - **左右手映射修订：** 上一轮参考了 [旧版 MediaPipe Hands 文档](https://github.com/google-ai-edge/mediapipe/blob/master/docs/solutions/hands.md) 的镜像标签说明并额外交换左右；玩家截图反馈表明该假设不适用于本项目当前 Tasks Vision 输入路径。本轮撤销额外交换，预览和开枪共用最终跟踪身份，并以连续位置匹配降低标签偶发翻转的影响。合成检查只验证程序对应关系，实际摄像头仍待玩家复测。
 - **字体：** 本机系统字体，无远程字体。
+- **张掌参考：** 用户本轮提供的简洁张手轮廓和卡通白手套图；按要求改为手背朝玩家、拇指向内的左右手。图形为共享 Canvas / SVG 路径，没有将参考截图打包为贴图。
 - **背景音乐：** 用户提供的 `ES_Well I Just Don't Care - Stationary Sign.wav`（Stationary Sign / Epidemic Sound），转换为 `garden-jazz.mp3`，保留完整曲目并处理两端淡入淡出。
 - **射击录音：** 用户提供的 Epidemic Sound 文件：`ES_Lasers, Gun, Fire, Shoot, Discharge, Singular`、`ES_Lasers, Gun, Plasma Blaster, Shoot, Fire, Single Rounds, Dull`、`ES_Lasers, Gun, Fire, Shoot, Powerful, Exhaust, Steam, Scifi, Variations`（原文件均为 `.wav`，后缀为 ` - Epidemic Sound`）。分别截取为轻、中、重枪声；蓄力循环从 Powerful 录音中截取、倒放并滤波，随蓄力改变音高与音量。来源署名不代表授予这些第三方录音新的许可。
 - **音频加工：** FFmpeg / libmp3lame；加工脚本在 `scripts/prepare-audio.py`。浏览器使用 Web Audio 播放，并合成满蓄力双音提示和短促受击声。
